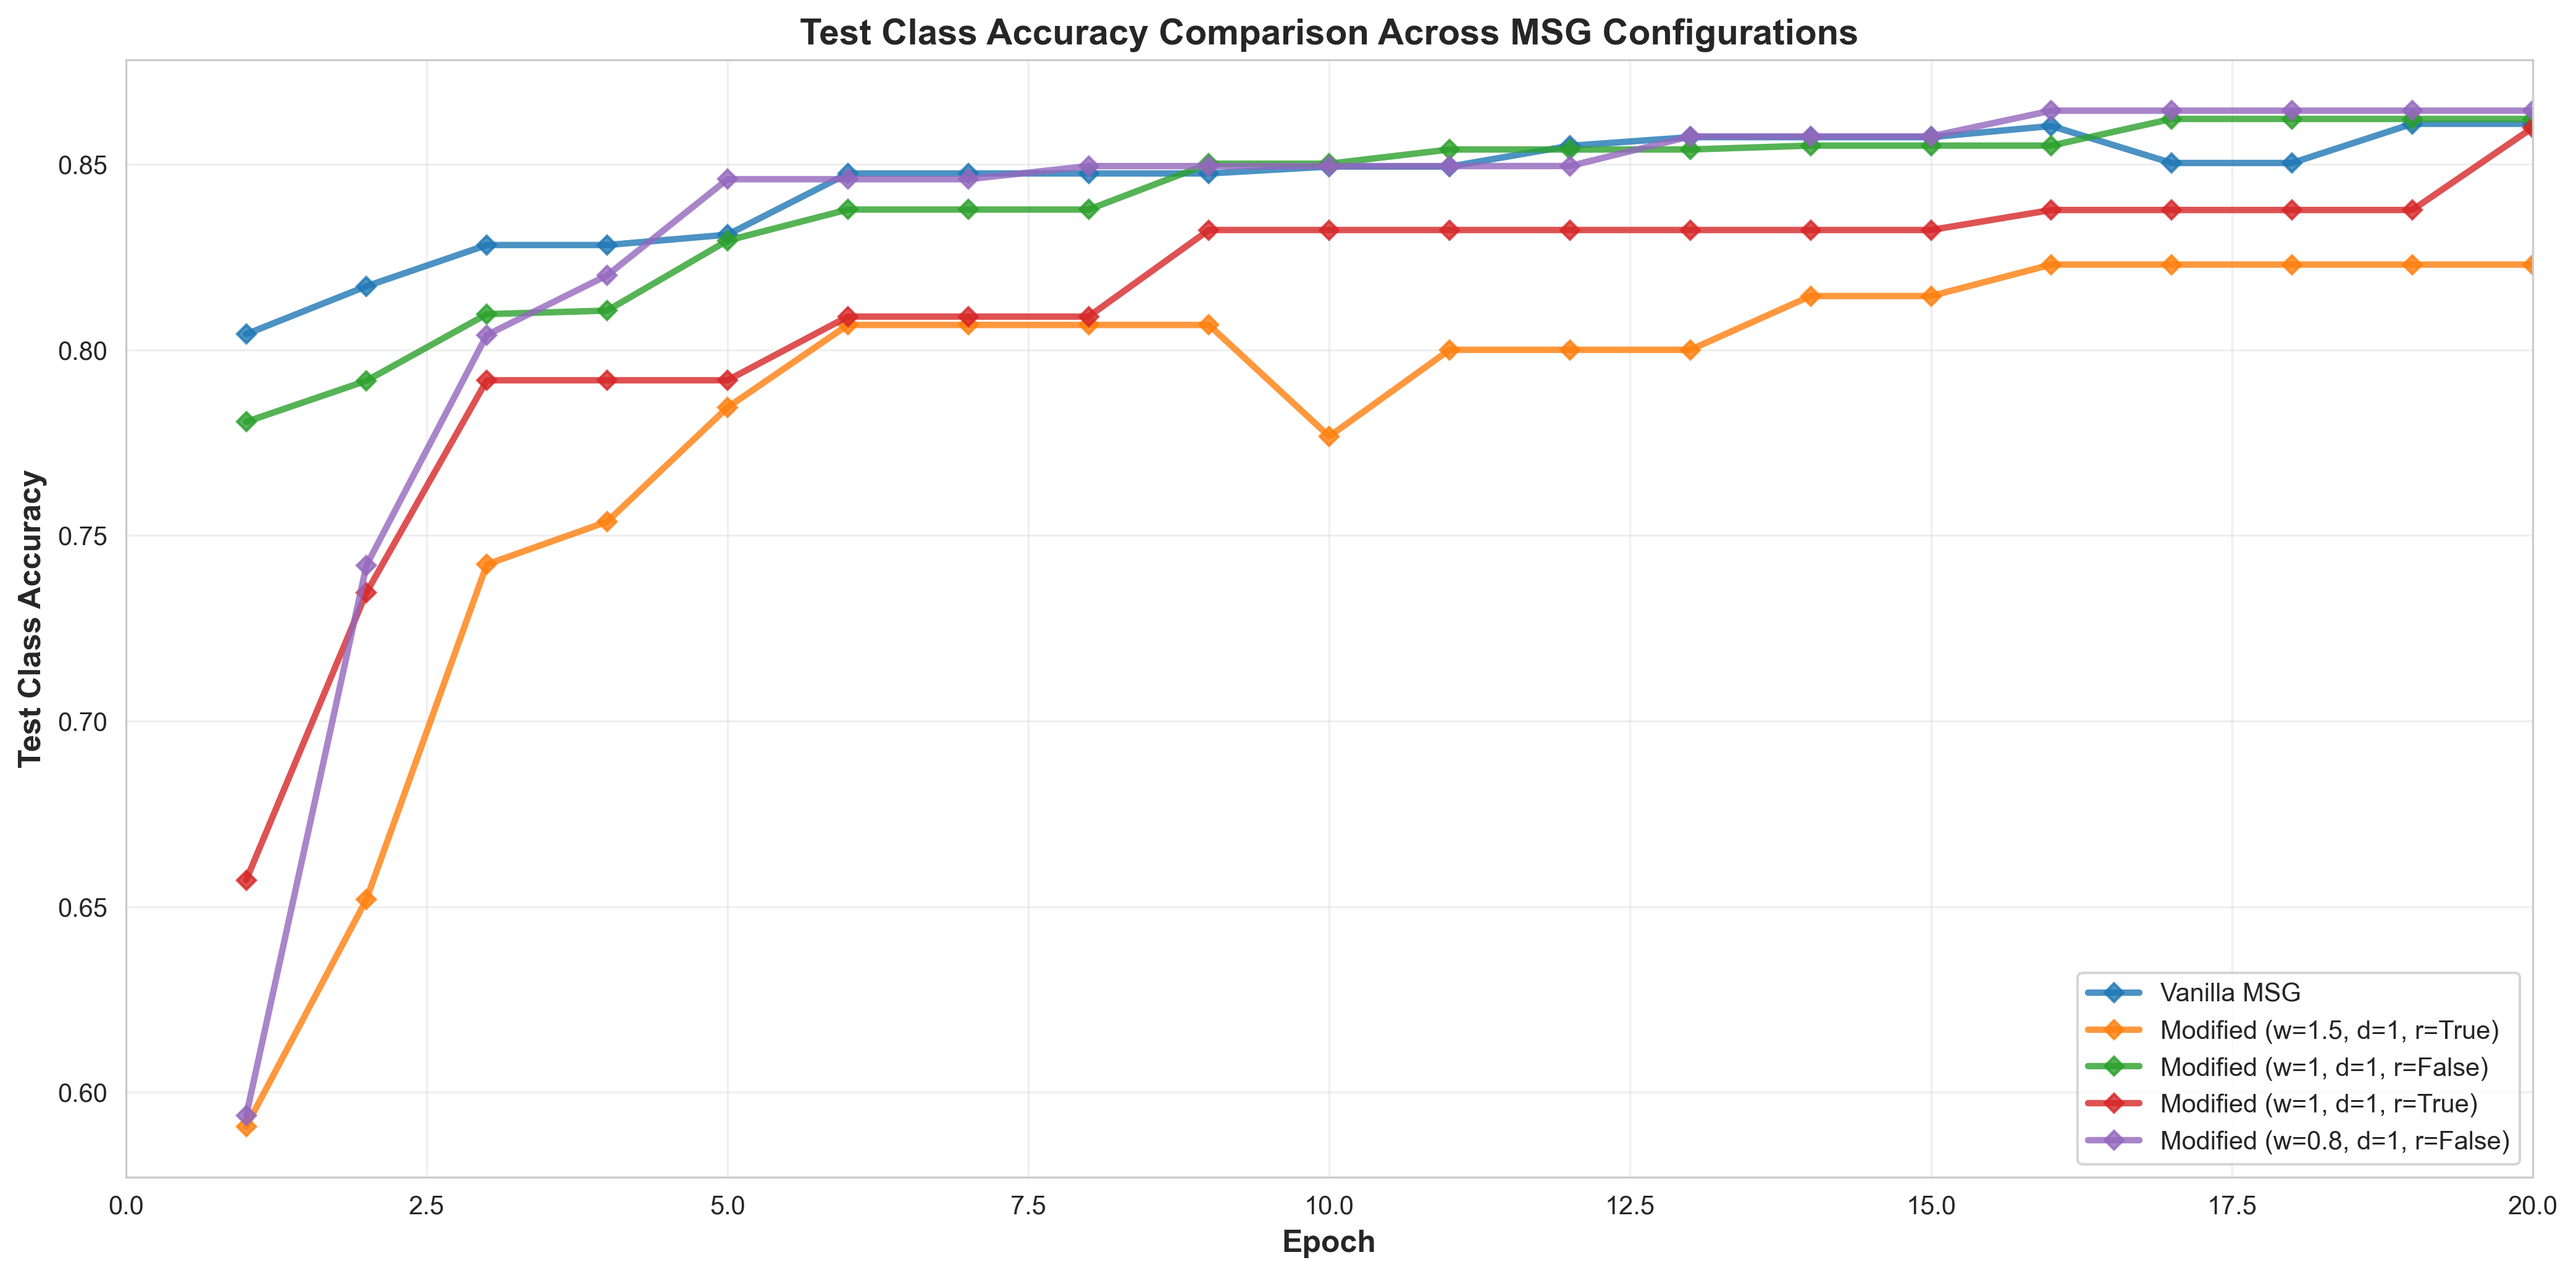
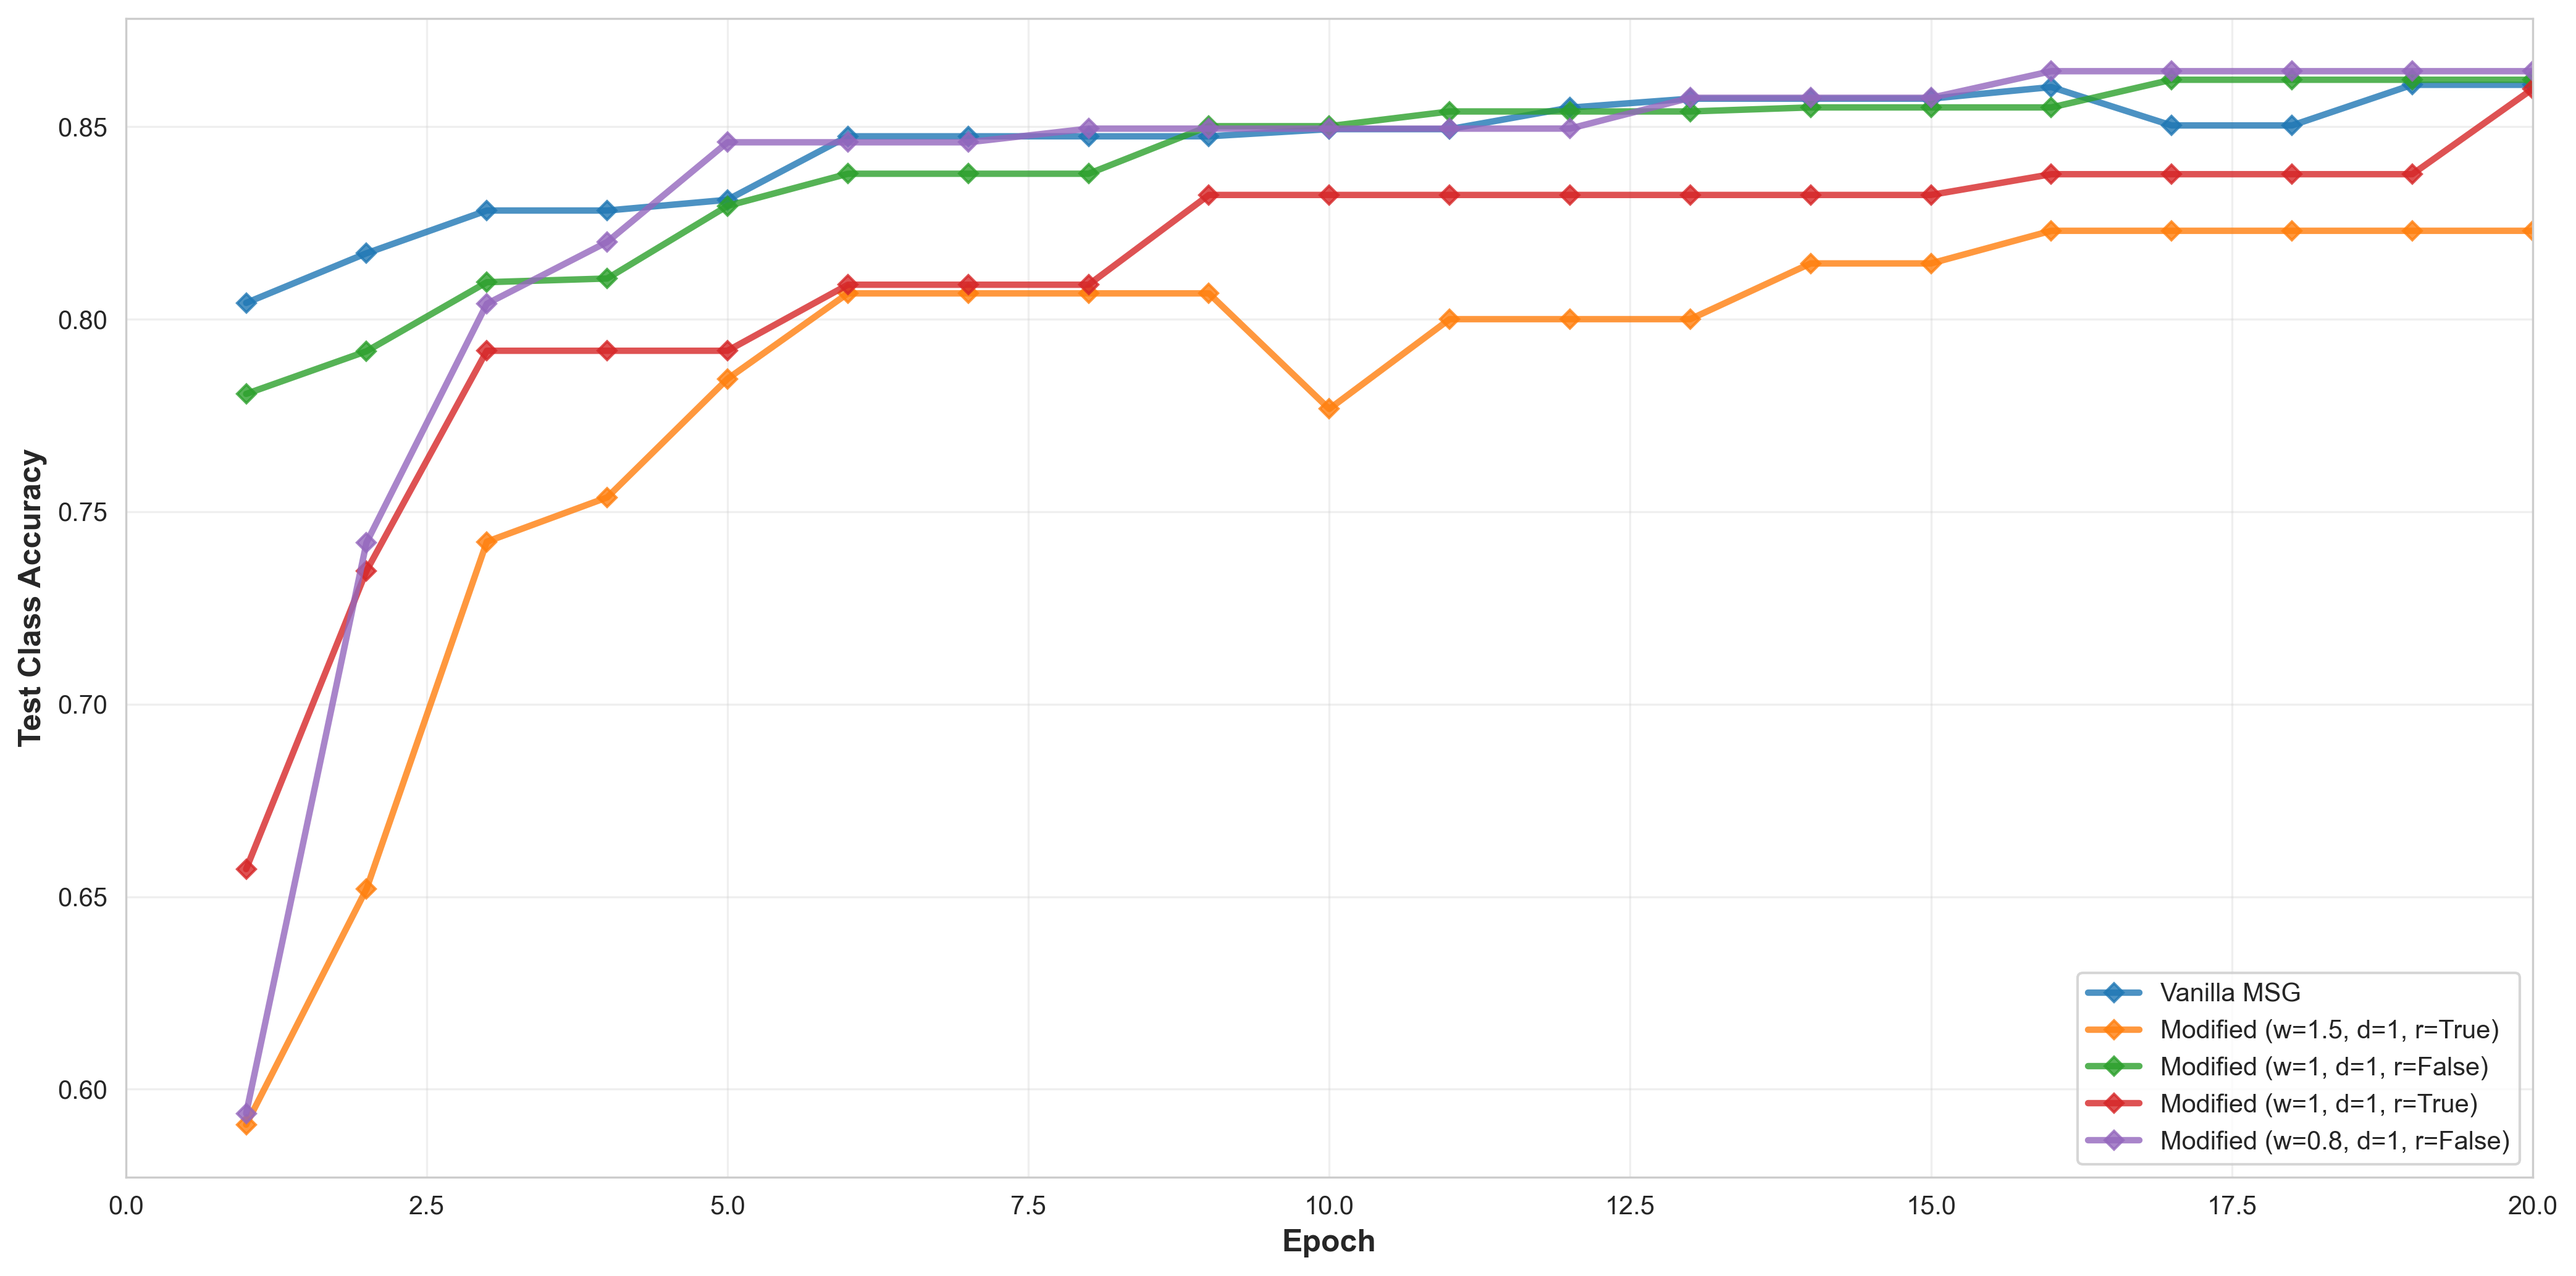
Refactor code structure for improved readability and maintainability

diff --git a/Pointnet_Pointnet2_pytorch/visualize_msg_results.py b/Pointnet_Pointnet2_pytorch/visualize_msg_results.py
@@ -78,7 +78,7 @@ for model_name, cols in models.items():
 
 ax1.set_xlabel('Epoch', fontsize=12, fontweight='bold')
 ax1.set_ylabel('Test Instance Accuracy', fontsize=12, fontweight='bold')
-ax1.set_title('Test Instance Accuracy Over Training', fontsize=14, fontweight='bold')
+
 ax1.legend(fontsize=9, loc='lower right')
 ax1.grid(True, alpha=0.3)
 ax1.set_xlim(0, 20)
@@ -91,7 +91,7 @@ for model_name, cols in models.items():
 
 ax2.set_xlabel('Epoch', fontsize=12, fontweight='bold')
 ax2.set_ylabel('Training Instance Accuracy', fontsize=12, fontweight='bold')
-ax2.set_title('Training Instance Accuracy Over Training', fontsize=14, fontweight='bold')
+
 ax2.legend(fontsize=9, loc='lower right')
 ax2.grid(True, alpha=0.3)
 ax2.set_xlim(0, 20)
@@ -114,7 +114,7 @@ for model_name, cols in models.items():
 
 ax.set_xlabel('Epoch', fontsize=12, fontweight='bold')
 ax.set_ylabel('Test Class Accuracy', fontsize=12, fontweight='bold')
-ax.set_title('Test Class Accuracy Comparison Across MSG Configurations', fontsize=14, fontweight='bold')
+
 ax.legend(fontsize=10, loc='lower right')
 ax.grid(True, alpha=0.3)
 ax.set_xlim(0, 20)
@@ -382,6 +382,33 @@ for i, (bar, val) in enumerate(zip(bars, test_accs)):
 plt.tight_layout()
 plt.savefig(output_dir / 'msg_configuration_impact.png', dpi=300, bbox_inches='tight')
 print(f"Saved: msg_configuration_impact.png")
+plt.close()
+
+# ====================================================================================
+# 5b. Overall Model Comparison (Standalone)
+# ====================================================================================
+fig, ax = plt.subplots(figsize=(14, 8))
+
+all_models = list(best_results.keys())
+test_accs = [best_results[m]['test_acc'] * 100 for m in all_models]
+model_colors = [models[m]['color'] for m in all_models]
+
+bars = ax.bar(range(len(all_models)), test_accs, color=model_colors, 
+              alpha=0.7, edgecolor='black', linewidth=2)
+ax.set_ylabel('Test Accuracy (%)', fontsize=14, fontweight='bold')
+
+ax.set_xticks(range(len(all_models)))
+ax.set_xticklabels(all_models, rotation=15, ha='right', fontsize=11)
+ax.grid(True, alpha=0.3, axis='y')
+ax.set_ylim([85, 92])
+
+for i, (bar, val) in enumerate(zip(bars, test_accs)):
+    ax.text(bar.get_x() + bar.get_width()/2, bar.get_height() + 0.3, 
+            f'{val:.2f}%', ha='center', va='bottom', fontweight='bold', fontsize=12)
+
+plt.tight_layout()
+plt.savefig(output_dir / 'msg_overall_model_comparison.png', dpi=300, bbox_inches='tight')
+print(f"Saved: msg_overall_model_comparison.png")
 plt.close()
 
 # ====================================================================================
